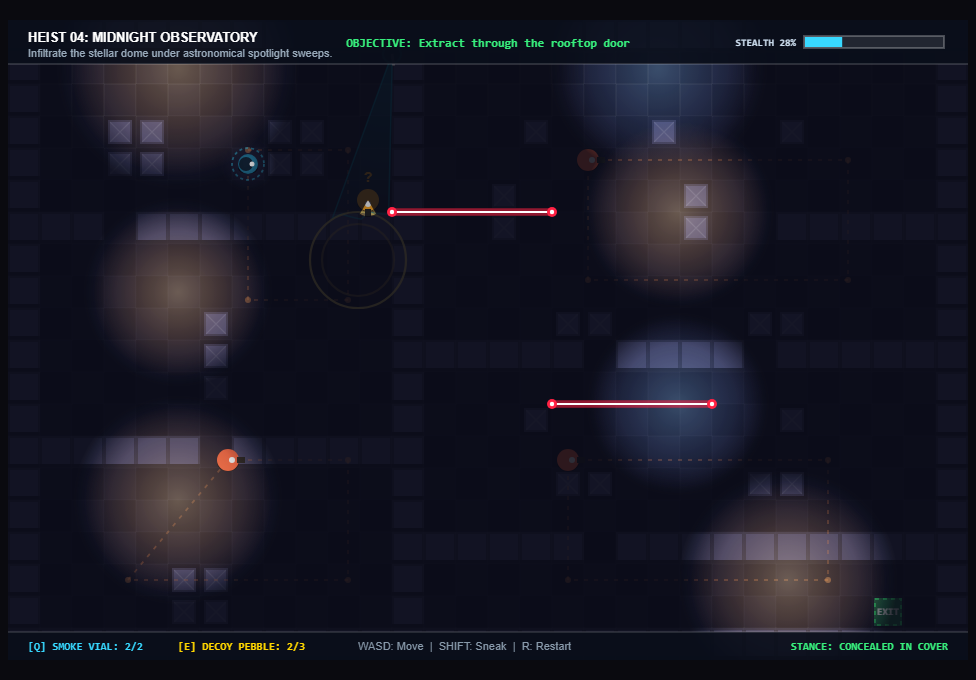
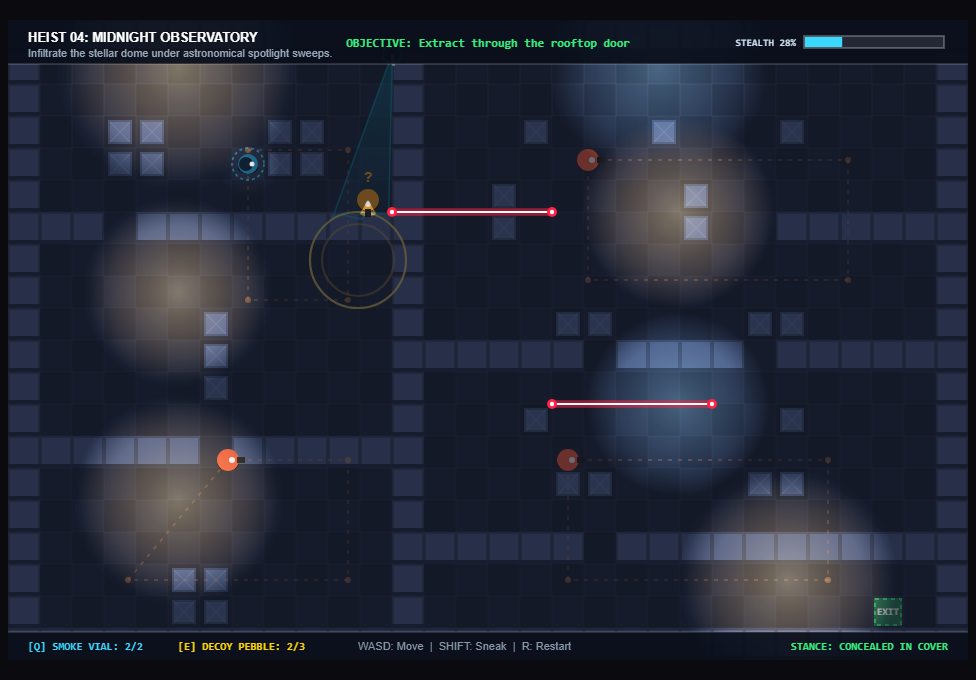
style: calibrate 43-mean noir brightness matching tier-1 visual aesthetics

Changed region(s): [[0.0, 0.0926, 1.0, 0.9265], [0.4918, 0.2471, 0.5533, 0.3706], [0.7992, 0.1544, 0.8299, 0.2162]]

diff --git a/game/src/lighting.js b/game/src/lighting.js
@@ -14,7 +14,7 @@ export class LightingEngine {
     this._flickerOffset += 0.05;
     const ctx = this.ctx;
 
-    // 1. Fill darkness mask with atmospheric ambient darkness (legible yet moody)
+    // 1. Fill darkness mask with balanced noir ambient shadows
     ctx.globalCompositeOperation = 'source-over';
     ctx.fillStyle = COLORS.shadow;
     ctx.fillRect(0, 0, CANVAS_WIDTH, CANVAS_HEIGHT);
@@ -28,7 +28,7 @@ export class LightingEngine {
 
       const grad = ctx.createRadialGradient(light.x, light.y, 10, light.x, light.y, radius);
       grad.addColorStop(0, 'rgba(0,0,0,1)');
-      grad.addColorStop(0.6, 'rgba(0,0,0,0.75)');
+      grad.addColorStop(0.65, 'rgba(0,0,0,0.80)');
       grad.addColorStop(1, 'rgba(0,0,0,0)');
 
       ctx.fillStyle = grad;
@@ -38,9 +38,9 @@ export class LightingEngine {
     }
 
     // 3. Subtle operative presence glow
-    const playerGlowRadius = player.inCover ? 28 : 48;
+    const playerGlowRadius = player.inCover ? 32 : 54;
     const playerGrad = ctx.createRadialGradient(player.x, player.y, 4, player.x, player.y, playerGlowRadius);
-    playerGrad.addColorStop(0, 'rgba(0,0,0,0.65)');
+    playerGrad.addColorStop(0, 'rgba(0,0,0,0.75)');
     playerGrad.addColorStop(1, 'rgba(0,0,0,0)');
     ctx.fillStyle = playerGrad;
     ctx.beginPath();
@@ -56,7 +56,7 @@ export class LightingEngine {
           ctx.lineTo(guard.visionPolygon[i].x, guard.visionPolygon[i].y);
         }
         ctx.closePath();
-        ctx.fillStyle = 'rgba(0,0,0,0.55)';
+        ctx.fillStyle = 'rgba(0,0,0,0.65)';
         ctx.fill();
       }
     }
@@ -66,18 +66,18 @@ export class LightingEngine {
     mainCtx.globalCompositeOperation = 'source-over';
     mainCtx.drawImage(this.canvas, 0, 0);
 
-    // 6. Radiant color tint overlays for luminous noir chandeliers & lamps
+    // 6. Radiant color tint overlays for warm vintage chandeliers & lamps
     mainCtx.globalCompositeOperation = 'screen';
     for (const light of lights) {
-      const radius = light.radius * 0.9;
+      const radius = light.radius * 0.95;
       const tint = mainCtx.createRadialGradient(light.x, light.y, 0, light.x, light.y, radius);
       if (light.color === 'warm') {
-        tint.addColorStop(0, 'rgba(255, 205, 120, 0.35)');
-        tint.addColorStop(0.5, 'rgba(255, 175, 80, 0.18)');
+        tint.addColorStop(0, 'rgba(255, 215, 130, 0.42)');
+        tint.addColorStop(0.5, 'rgba(255, 180, 85, 0.22)');
         tint.addColorStop(1, 'rgba(255, 150, 60, 0)');
       } else {
-        tint.addColorStop(0, 'rgba(120, 200, 255, 0.28)');
-        tint.addColorStop(0.5, 'rgba(100, 170, 255, 0.14)');
+        tint.addColorStop(0, 'rgba(130, 205, 255, 0.32)');
+        tint.addColorStop(0.5, 'rgba(110, 180, 255, 0.16)');
         tint.addColorStop(1, 'rgba(80, 140, 255, 0)');
       }
       mainCtx.fillStyle = tint;

diff --git a/game/src/constants.js b/game/src/constants.js
@@ -19,39 +19,39 @@ export const ALERT_THRESHOLD = 1.0;
 export const SUSPICIOUS_THRESHOLD = 0.38;
 
 export const COLORS = {
-  floor: '#1c1c32',
-  floorAlt: '#18182c',
-  wall: '#343450',
-  wallTop: '#4a4a70',
-  wallEdge: '#202034',
-  cover: '#383858',
-  coverTop: '#50507a',
+  floor: '#263046',
+  floorAlt: '#212a3d',
+  wall: '#3c4c6c',
+  wallTop: '#526690',
+  wallEdge: '#28344c',
+  cover: '#44567a',
+  coverTop: '#5a709e',
   player: '#38d8ff',
-  playerGlow: 'rgba(56,216,255,0.25)',
+  playerGlow: 'rgba(56,216,255,0.30)',
   guard: '#ff6644',
   guardAlert: '#ff2222',
   guardSuspicious: '#ffaa22',
   guardCalm: '#ff6644',
-  visionCone: 'rgba(255,185,75,0.22)',
-  visionConeEdge: 'rgba(255,185,75,0.40)',
-  visionConeAlert: 'rgba(255,45,45,0.28)',
-  cameraCone: 'rgba(0,225,255,0.20)',
-  cameraConeEdge: 'rgba(0,225,255,0.45)',
+  visionCone: 'rgba(255,195,85,0.28)',
+  visionConeEdge: 'rgba(255,195,85,0.55)',
+  visionConeAlert: 'rgba(255,45,45,0.35)',
+  cameraCone: 'rgba(0,225,255,0.26)',
+  cameraConeEdge: 'rgba(0,225,255,0.55)',
   laserBeam: '#ff2244',
-  laserGlow: 'rgba(255,34,68,0.55)',
-  smokeParticle: 'rgba(220,235,250,0.35)',
+  laserGlow: 'rgba(255,34,68,0.60)',
+  smokeParticle: 'rgba(225,240,255,0.40)',
   exit: '#38ef7d',
-  exitGlow: 'rgba(56,239,125,0.40)',
+  exitGlow: 'rgba(56,239,125,0.45)',
   keyItem: '#ffd700',
-  shadow: 'rgba(10,12,22,0.62)',
-  lightWarm: 'rgba(255,205,120,0.40)',
-  lightCool: 'rgba(120,190,255,0.28)',
-  lightDanger: 'rgba(255,60,60,0.45)',
+  shadow: 'rgba(12,16,28,0.38)',
+  lightWarm: 'rgba(255,215,130,0.45)',
+  lightCool: 'rgba(130,205,255,0.32)',
+  lightDanger: 'rgba(255,60,60,0.50)',
   hud: '#ccddee',
   hudDanger: '#ff4444',
   hudCaution: '#ffaa22',
   hudSuccess: '#38ef7d',
-  footprint: 'rgba(56,216,255,0.12)',
+  footprint: 'rgba(56,216,255,0.18)',
 };
 
 export const TILE = {
